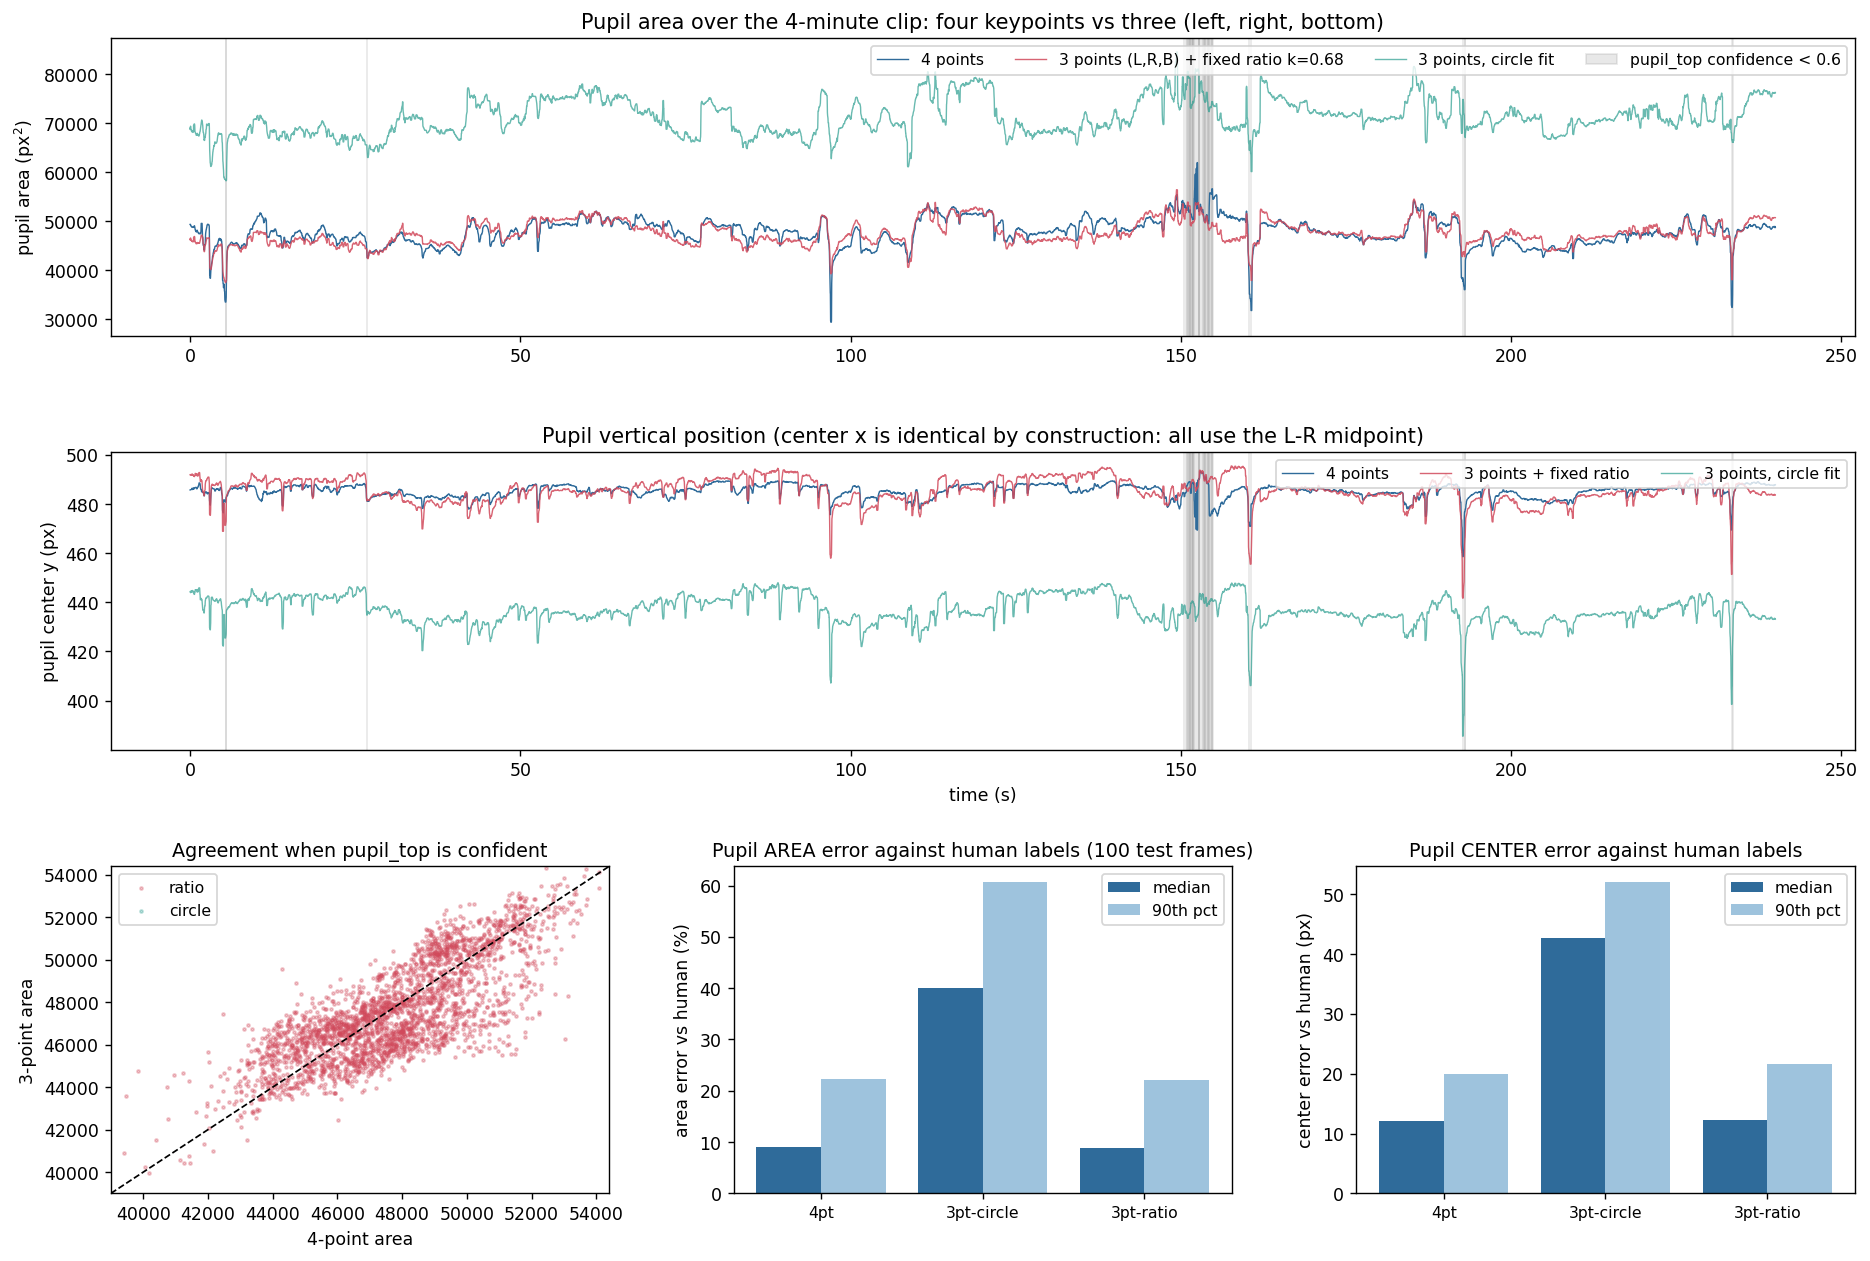
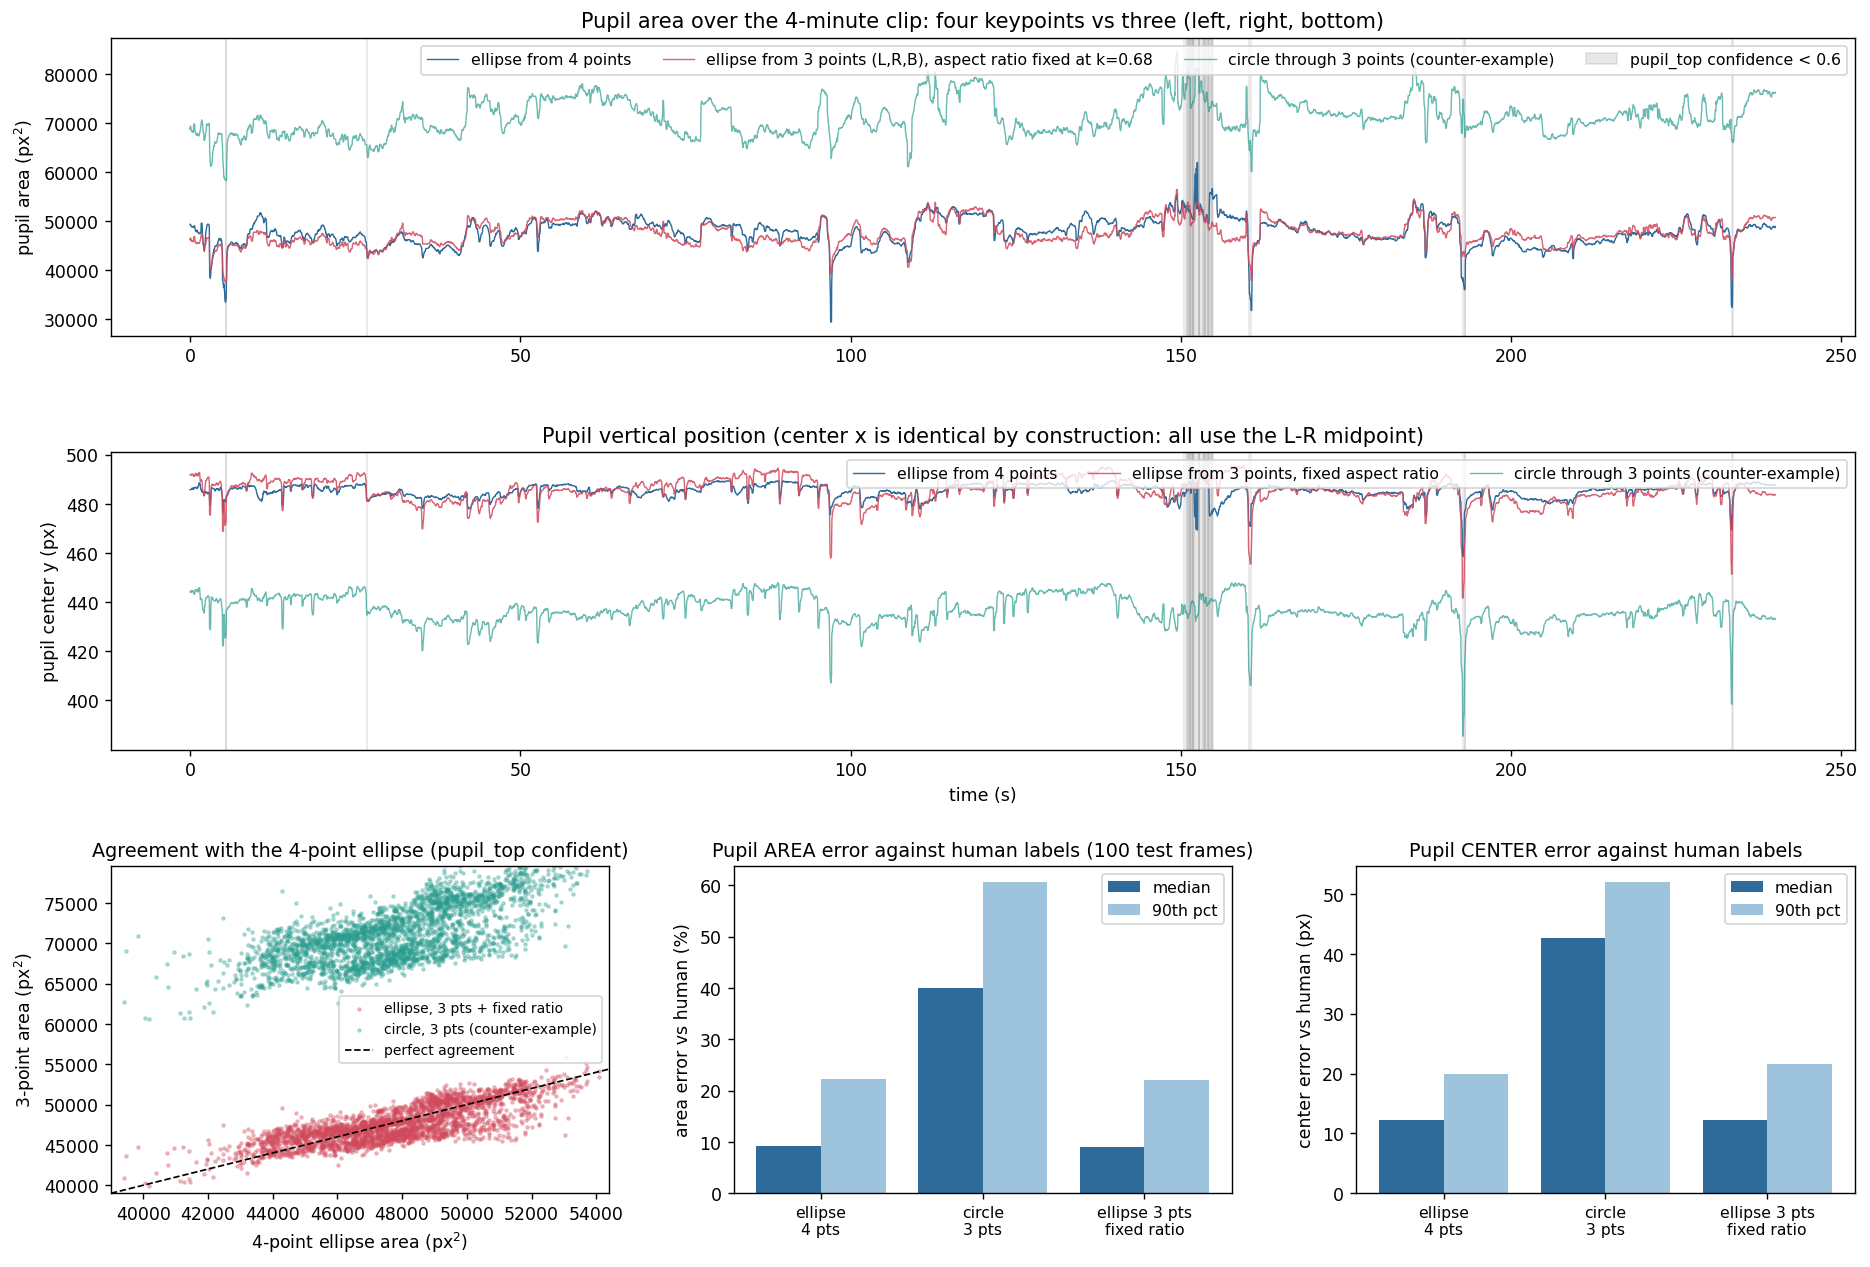
Pupil sensitivity figure: show the circle counter-example, name the estimators as ellipses
The scatter's y-range clipped the circle-fit points out of view, and the
legend hid that both recommended estimators are ellipses (4-point, and
3-point with a fixed aspect ratio); the circle is only a counter-example.

diff --git a/time-series-analysis/scripts/pupil_3pt_sensitivity.py b/time-series-analysis/scripts/pupil_3pt_sensitivity.py
@@ -4,11 +4,15 @@ from THREE keypoints (left, right, bottom) versus all FOUR.
 
 pupil_top is often hidden under the upper eyelid and is the least reliable
 pupil point. Three estimators are compared:
-  4pt        center = (mid(L,R).x, mid(T,B).y); area = pi/4 * |R-L| * |B-T|
-  3pt-circle circle through L, R, B (circumcircle): center, area = pi r^2
-  3pt-ratio  width from L,R; height = k * width, k = the video's own median
-             height/width ratio measured on frames where pupil_top is
-             confident; center y = B.y - height/2
+The pupil is modeled as an axis-aligned ELLIPSE (advisor, 2026-09-12 meeting).
+Such an ellipse has 4 unknowns (center x, y, width, height); three points give
+only 3 constraints, so one assumption must be added:
+  4pt        ellipse from all four points: area = pi/4 * |R-L| * |B-T|
+  3pt-ratio  ellipse from L, R, B with the aspect ratio FIXED at k, the video's
+             own median height/width on frames where pupil_top is confident;
+             height = k * width, center y = B.y - height/2   <- the proposal
+  3pt-circle the other possible assumption, width = height (circle through
+             L, R, B). Included only as a counter-example: it fails.
 Two questions:
   A. On the old video's 4-minute clip (production model, 14,400 frames): how
      far apart are the estimators, overall and when pupil_top is unreliable?
@@ -116,32 +120,33 @@ fig = plt.figure(figsize=(18, 12))
 gs = fig.add_gridspec(3, 3, height_ratios=[1, 1, 1.1], hspace=0.38, wspace=0.25)
 sm = lambda v: pd.Series(v).rolling(15, center=True, min_periods=1).median().to_numpy()
 ax = fig.add_subplot(gs[0, :])
-ax.plot(t, sm(a4), lw=0.8, color="#2F6B9A", label="4 points")
-ax.plot(t, sm(ar), lw=0.8, color="#D1495B", alpha=0.85, label=f"3 points (L,R,B) + fixed ratio k={k:.2f}")
-ax.plot(t, sm(ac), lw=0.8, color="#2A9D8F", alpha=0.7, label="3 points, circle fit")
+ax.plot(t, sm(a4), lw=0.8, color="#2F6B9A", label="ellipse from 4 points")
+ax.plot(t, sm(ar), lw=0.8, color="#D1495B", alpha=0.85, label=f"ellipse from 3 points (L,R,B), aspect ratio fixed at k={k:.2f}")
+ax.plot(t, sm(ac), lw=0.8, color="#2A9D8F", alpha=0.7, label="circle through 3 points (counter-example)")
 ax.fill_between(t, 0, 1, where=~good_top, transform=ax.get_xaxis_transform(), color="gray", alpha=0.18,
                 label="pupil_top confidence < 0.6")
 ax.set_ylabel("pupil area (px$^2$)"); ax.legend(fontsize=9, ncol=4, loc="upper right")
 ax.set_title("Pupil area over the 4-minute clip: four keypoints vs three (left, right, bottom)", fontsize=12)
 ax = fig.add_subplot(gs[1, :], sharex=ax)
-ax.plot(t, sm(c4[:, 1]), lw=0.8, color="#2F6B9A", label="4 points")
-ax.plot(t, sm(cr[:, 1]), lw=0.8, color="#D1495B", alpha=0.85, label="3 points + fixed ratio")
-ax.plot(t, sm(cc[:, 1]), lw=0.8, color="#2A9D8F", alpha=0.7, label="3 points, circle fit")
+ax.plot(t, sm(c4[:, 1]), lw=0.8, color="#2F6B9A", label="ellipse from 4 points")
+ax.plot(t, sm(cr[:, 1]), lw=0.8, color="#D1495B", alpha=0.85, label="ellipse from 3 points, fixed aspect ratio")
+ax.plot(t, sm(cc[:, 1]), lw=0.8, color="#2A9D8F", alpha=0.7, label="circle through 3 points (counter-example)")
 ax.fill_between(t, 0, 1, where=~good_top, transform=ax.get_xaxis_transform(), color="gray", alpha=0.18)
 ax.set_ylabel("pupil center y (px)"); ax.set_xlabel("time (s)"); ax.legend(fontsize=9, ncol=3, loc="upper right")
 ax.set_title("Pupil vertical position (center x is identical by construction: all use the L-R midpoint)", fontsize=12)
 
 ax = fig.add_subplot(gs[2, 0])
 m = good_top & lrb_ok
-ax.scatter(a4[m][::5], ar[m][::5], s=3, alpha=0.3, color="#D1495B", label="ratio")
-ax.scatter(a4[m][::5], ac[m][::5], s=3, alpha=0.3, color="#2A9D8F", label="circle")
-lim = [np.nanpercentile(a4, 1), np.nanpercentile(a4, 99)]
-ax.plot(lim, lim, "k--", lw=1); ax.set_xlim(lim); ax.set_ylim(lim)
-ax.set_xlabel("4-point area"); ax.set_ylabel("3-point area"); ax.legend(fontsize=9)
-ax.set_title("Agreement when pupil_top is confident", fontsize=11)
+ax.scatter(a4[m][::5], ar[m][::5], s=3, alpha=0.3, color="#D1495B", label="ellipse, 3 pts + fixed ratio")
+ax.scatter(a4[m][::5], ac[m][::5], s=3, alpha=0.3, color="#2A9D8F", label="circle, 3 pts (counter-example)")
+lo = np.nanpercentile(a4, 1); hi = max(np.nanpercentile(a4, 99), np.nanpercentile(ac[m], 99))
+ax.plot([lo, hi], [lo, hi], "k--", lw=1, label="perfect agreement")
+ax.set_xlim(lo, np.nanpercentile(a4, 99)); ax.set_ylim(lo, hi)
+ax.set_xlabel("4-point ellipse area (px$^2$)"); ax.set_ylabel("3-point area (px$^2$)"); ax.legend(fontsize=8, loc="center right")
+ax.set_title("Agreement with the 4-point ellipse (pupil_top confident)", fontsize=11)
 
 ax = fig.add_subplot(gs[2, 1])
-names = [r[0].replace("model ", "") for r in rows]
+names = ["ellipse\n4 pts", "circle\n3 pts", "ellipse 3 pts\nfixed ratio"]
 x = np.arange(len(rows))
 ax.bar(x - 0.2, [r[1] for r in rows], 0.4, color="#2F6B9A", label="median")
 ax.bar(x + 0.2, [r[2] for r in rows], 0.4, color="#9ec3dd", label="90th pct")

diff --git a/time-series-analysis/results/README.md b/time-series-analysis/results/README.md
@@ -87,8 +87,12 @@ flag rather than blink evidence - fully consistent with the advisor's
 often hidden under the upper eyelid; how much do pupil size and location
 change if only left, right and bottom are used?
 
-- **Three points lose nothing** when height is derived from width with the
-  video's own visible height/width ratio (k = 0.68; human labels give 0.71):
+- The pupil is modeled as an axis-aligned ELLIPSE throughout (advisor,
+  2026-09-12). Such an ellipse has four unknowns and three points give three
+  constraints, so one assumption is needed: a fixed aspect ratio (proposal)
+  or width = height, i.e. a circle (counter-example).
+- **Three points lose nothing** when the ellipse's aspect ratio is fixed at
+  the video's own visible height/width ratio (k = 0.68; human labels: 0.71):
   versus the 4-point estimate, area differs by a median 2.3% and the center
   by 2.3 px over 14,400 frames; against the HUMAN 4-point pupil on the 100
   test frames, area error is 8.9% (4-point: 9.1%) and center error 12.3 px
